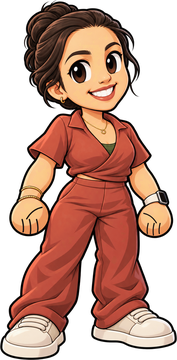
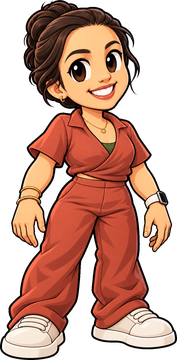
Jogo: novas ilustrações de Alex e Pati com as mãos
Claude-Session: https://claude.ai/code/session_01QVcosfxnKWdKdans2zTJsk

diff --git a/patriciaealexandre/jogo/index.html b/patriciaealexandre/jogo/index.html
@@ -89,8 +89,8 @@ html,body{height:100%;margin:0;background:var(--oliva-escuro);color:var(--linho)
   <p class="guia sub">Ache nossa família no menor tempo possível e revele algo que você não pode esquecer!</p>
   <p class="escolha-titulo">Escolha um personagem</p>
   <div class="escolha">
-    <button class="carta" data-p="alex"><img src="alex.png" width="197" height="360" alt=""><span>Alex</span></button>
-    <button class="carta" data-p="pati"><img src="pati.png" width="177" height="360" alt=""><span>Pati</span></button>
+    <button class="carta" data-p="alex"><img src="alex.png?v=2" width="197" height="360" alt=""><span>Alex</span></button>
+    <button class="carta" data-p="pati"><img src="pati.png?v=2" width="177" height="360" alt=""><span>Pati</span></button>
   </div>
 </div></section>
 
@@ -111,7 +111,7 @@ html,body{height:100%;margin:0;background:var(--oliva-escuro);color:var(--linho)
 (function(){
 'use strict';
 var T=16, Z=2, COLS=11, ROWS=13, RANGE=2, FUSE=1.6, FLAME=0.5, STEP=0.15;
[2 lines of base64/hex data omitted]
 var NOME={alex:'Alex',pati:'Pati',chico:'Chico',bono:'Bono'};
 var SP={}, prontos=0;
 var FR={}, FACE={alex:1,pati:1,bono:-1,chico:1}, PERNA={alex:.70,pati:.70,bono:.72,chico:.72};
